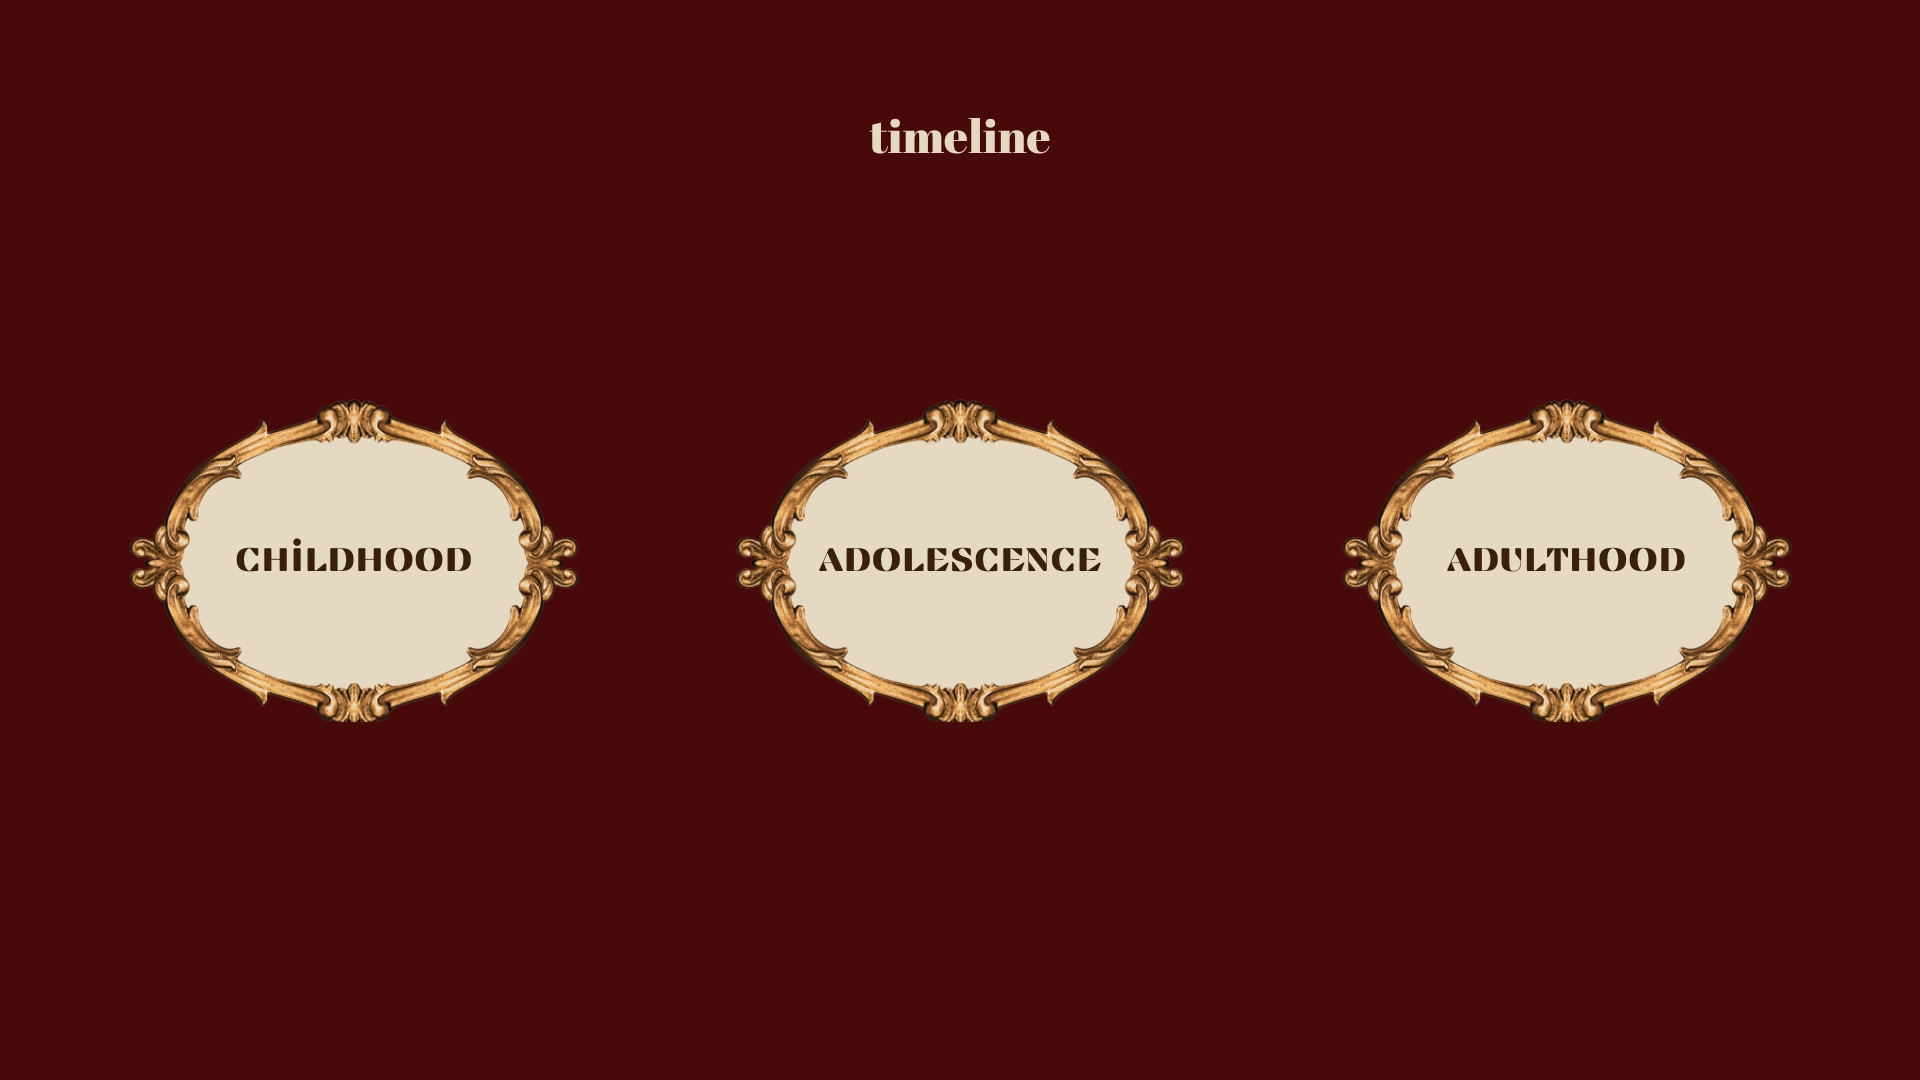
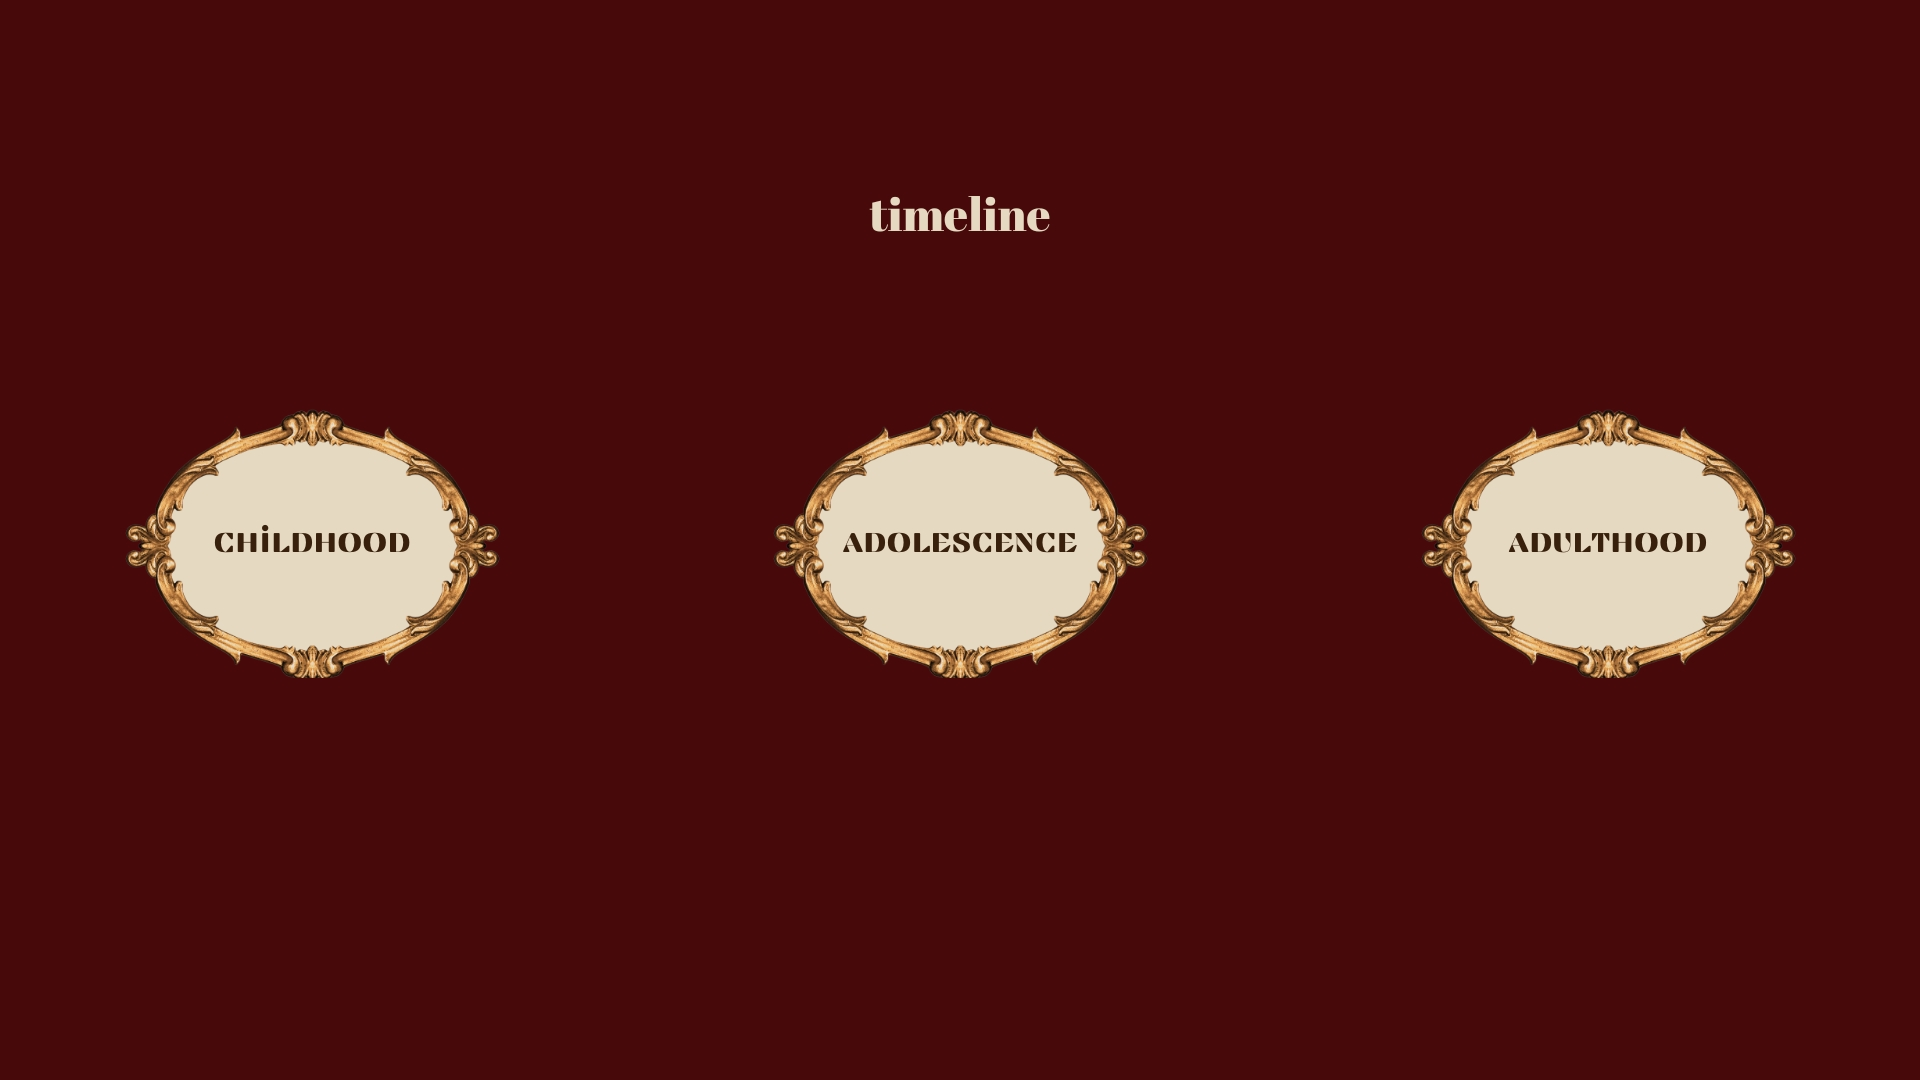
k

diff --git a/index.html b/index.html
@@ -53,13 +53,6 @@ img.top-banner [tags~="imagemap"] {
   padding: 0;
 }
 
-img.top-banner-lrg [tags~="imagemap] {
-  display: block;
-  width: 110%;
-  margin: 0;
-  padding: 0;
-}
-
 tw-story {
   font-family: 'Playfair Display', serif;
   color: #e6d9c1;
@@ -86,7 +79,7 @@ tw-sidebar
 // Harlowe Macro Framework, by Chapel; version 1.0.2
 ;!function(){"use strict";var r={major:1,minor:0,patch:2},e=[r.major,r.minor,r.patch].join(".");r.semantic=e,r=Object.freeze(r);var t=$("tw-storydata"),a=Object.freeze({name:t.attr("name"),ifid:t.attr("ifid")}),n=t.attr("format-version"),o=n.split("."),i=Object.freeze({major:o[0],minor:o[1],patch:o[2],semantic:n});window.Harlowe=window.Harlowe||{},window.Harlowe=Object.assign(window.Harlowe,{framework:r,API_ACCESS:Object.freeze({MACROS:require("macros"),STATE:require("state"),CHANGER:require("datatypes/changercommand"),ENGINE:require("engine")}),engine:i,story:a})}(),function(){"use strict";function e(r){return"number"==typeof r||"boolean"==typeof r||"string"==typeof r||null===r||Array.isArray(r)&&r.every(e)||r instanceof Set&&Array.from(r).every(e)||r instanceof Map&&Array.from(r.values()).every(e)||_changer.isPrototypeOf(r)}window.Harlowe=Object.assign(window.Harlowe,{helpers:{isSerialisable:e,isSerializable:e,arrayify:function(r,e){if(r){var t=[].slice.call(r);return void 0!==e&&(t=t.slice(e)),t}},getPassageData:function(r){var e=$('tw-passagedata[name="'+r+'"]');if(e[0])return e}}})}(),function(){"use strict";var n=window.localStorage||!1,o=Harlowe.story.ifid+"-tw-storage";function r(){try{if(!n)throw new Error("storage is inaccessible");n.setItem(o,JSON.stringify({ifid:Harlowe.story.ifid}))}catch(r){console.warn(r)}}function i(r){try{var e;if(n)return e=JSON.parse(n.getItem(o)),r&&r&&"string"==typeof r?e[r]:e;throw new Error("storage is inaccessible")}catch(r){console.warn(r)}}null==i()&&r(),Harlowe.storage={clear:r,save:function(r,e){try{if(!r||"string"!=typeof r)throw new TypeError("cannot store values without a valid storage key");if(void 0===e)throw new TypeError("cannot store undefined values");var t={};if(t[r]=e,!n)throw new Error("storage is inaccessible");var a=i();Object.assign(a,t),n.setItem(o,JSON.stringify(a))}catch(r){console.warn(r)}},load:i,remove:function(r){try{if(!r||"string"!=typeof r)throw new TypeError("cannot store values without a valid storage key");if(!n)throw new Error("storage is inaccessible");var e=i();e.hasOwnProperty(r)&&(delete e[r],n.setItem(o,JSON.stringify(e)))}catch(r){console.warn(r)}}}}(),function(){"use strict";function a(r,e,t){if(!(this instanceof a))return new a(r,e,t);this.name=r||"unknown",this.args=e||[],this.data=t||{},this.type=t&&t.type||"basic",this.fn=t&&t.fn||"handler","changer"===this.type&&("handler"===this.fn?this.instance=t&&t.instance||null:this.descriptor=t&&t.descriptor||null)}a.create=function(r,e,t){if(!r||"string"!=typeof r||!r.trim())throw new TypeError("Invalid macro name.");return e&&e instanceof Array||(e=[]),t&&"object"==typeof t||(t={type:"basic",fn:"handler"}),new a(r,e,t)},Object.assign(a.prototype,{clone:function(){return a.create(this.name,this.args,this.data)},syntax:function(){return"("+this.name+":)"},error:function(r,e){var t="Error in the "+this.syntax()+" macro: "+r;return e&&alert(t),console.warn("HARLOWE CUSTOM MACRO ERROR -> ",t),new Error(r)},typeCheck:function(r){r&&r instanceof Array||(r=Harlowe.helpers.arrayify(arguments));var n=this,o=[];if(r.forEach(function(r,e){var t=e+1,a=[];"string"==typeof r&&("any"===(a=r.includes("|")?r.split("|").map(function(r){return r.trim().toLowerCase()}):[r.trim().toLowerCase()])[0]||a.some(function(r){return typeof n.args[e]===r})||o.push("argument "+t+" should be a(n) "+a.join(" or ")))}),o.length)return n.error(o.join("; "))}}),window.Harlowe=Object.assign(window.Harlowe,{MacroContext:a})}(),function(){"use strict";var c=Harlowe.API_ACCESS.MACROS,l=Harlowe.API_ACCESS.CHANGER;window.Harlowe=Object.assign(window.Harlowe||{},{macro:function(r,e,t){if(!r||"string"!=typeof r||!r.trim())throw new TypeError("Invalid macro name.");if(!e||"function"!=typeof e)throw new TypeError("Invalid macro handler.");var a,n,o,i,s;t&&"function"==typeof t?(o=r,i=e,s=t,c.addChanger(o,function(){var r=Harlowe.helpers.arrayify(arguments,1),e=l.create(o,r),t=Harlowe.MacroContext.create(o,r,{type:"changer",fn:"handler",instance:e});return i.apply(t,r),e},function(){var r=Harlowe.helpers.arrayify(arguments),e=r.shift(),t=Harlowe.MacroContext.create(o,r,{type:"changer",fn:"changer",descriptor:e});s.apply(t,r)},c.TypeSignature.zeroOrMore(c.TypeSignature.Any))):(a=r,n=e,c.add(a,function(){var r=Harlowe.helpers.arrayify(arguments,1),e=Harlowe.MacroContext.create(a,r,{type:"basic",fn:"handler"}),t=n.apply(e,r);return null==t?"":t},c.TypeSignature.zeroOrMore(c.TypeSignature.Any)))}})}(),function(){"use strict";var t=Harlowe.API_ACCESS.STATE,e=Harlowe.API_ACCESS.ENGINE;function a(){return t.passage}window.Harlowe=Object.assign(window.Harlowe||{},{passage:a,tags:function(r){r=r||a();try{var e=Harlowe.helpers.getPassageData(r).attr("tags");return e?e.split(" "):[]}catch(r){return console.warn(r.message),[]}},goto:function(r){return e.goToPassage(r)},variable:function(r,e){if("$"!==r[0])throw new Error('cannot access variable "'+r+'"');if(r=r.substr(1),void 0!==e){if(!Harlowe.helpers.isSerialisable(e))throw new Error('The value passed to variable "'+r+'" cannot be serialized.');t.variables[r]=e}return t.variables[r]},visited:function(r){return t.passageNameVisited(r||a())},hasVisited:function(r){return 0<t.passageNameVisited(r||a())},turns:function(){return t.pastLength}})}();
 // end Harlowe Macro Framework</script><tw-tag name="imagemap" color="red"></tw-tag><tw-passagedata pid="1" name="Untitled Passage" tags="imagemap" position="600,250" size="100,100">&lt;!-- Image Map Generated by http://www.image-map.net/ --&gt;
-&lt;img src=&quot;./images/title.jpg&quot; class=&quot;top-banner-lrg&quot; usemap=&quot;#image-map&quot;&gt; 
+&lt;img src=&quot;./images/title.jpg&quot; class=&quot;top-banner&quot; usemap=&quot;#image-map&quot;&gt; 
 
 
 &lt;map name=&quot;image-map&quot;&gt;
@@ -107,12 +100,12 @@ tw-sidebar
 </tw-passagedata><tw-passagedata pid="2" name="introduction" tags="" position="600,375" size="100,100">(align:&quot;=&gt;&lt;=&quot;)+(box:&quot;===XXXXXXXXXXXXXX===&quot;)[//On Vanity and the Art of Comparison// is a personal essay exploring the concept of vanity and comparison in a world in which identity extends beyond that of the physical world and into the digital; a world in which your identity is often assumed upon by style or body type or facial features. It asks whether it is possible to reject the idea of vanity in such a society, and highlights the average young woman’s experience of vanity from childhood through to early adulthood. How does one’s perception of self-change throughout these integral life stages? You will be taken through three life stages, and how you choose to experience each of these is up to you. 
 
 [[Go to Timeline|timeline]]]</tw-passagedata><tw-passagedata pid="3" name="timeline" tags="imagemap" position="600,500" size="100,100">&lt;!-- Image Map Generated by http://www.image-map.net/ --&gt;
-&lt;img src=&quot;./images/timeline.jpg&quot; class=&quot;top-banner&quot; usemap=&quot;#image-map&quot;&gt;
+&lt;img src=&quot;./image/timeline.jpg&quot; class:&quot;top-banner&quot; usemap=&quot;#image-map&quot;&gt;
 
 &lt;map name=&quot;image-map&quot;&gt;
-    &lt;area target=&quot;&quot; alt=&quot;childhood&quot; title=&quot;childhood&quot; href=&quot;&quot; coords=&quot;180,566,185,531,210,485,253,458,295,437,356,434,404,441,456,453,507,492,527,534,529,565,521,614,499,641,456,670,426,680,393,690,354,695,317,688,282,682,243,666,210,644,193,621,181,598&quot; shape=&quot;poly&quot;&gt;
-    &lt;area target=&quot;&quot; alt=&quot;adolescence&quot; title=&quot;adolescence&quot; href=&quot;&quot; coords=&quot;787,570,792,524,819,482,862,456,902,441,960,436,1007,441,1050,451,1094,476,1121,504,1133,537,1136,565,1126,612,1102,641,1070,665,1035,682,1004,690,962,693,924,690,887,680,855,666,823,646,801,619,787,597&quot; shape=&quot;poly&quot;&gt;
-    &lt;area target=&quot;&quot; alt=&quot;adulthood&quot; title=&quot;adulthood&quot; href=&quot;&quot; coords=&quot;1391,570,1396,527,1420,490,1459,463,1499,446,1545,439,1584,437,1627,444,1657,453,1696,471,1720,498,1732,524,1740,553,1740,597,1723,624,1705,644,1676,663,1638,680,1598,688,1569,693,1533,690,1501,685,1469,675,1447,661,1420,643,1399,604&quot; shape=&quot;poly&quot;&gt;
+    &lt;area target=&quot;&quot; alt=&quot;childhood&quot; title=&quot;childhood&quot; href=&quot;&quot; coords=&quot;165,553,173,510,193,482,234,456,275,441,312,439,351,444,383,454,422,471,451,504,458,548,446,592,426,615,397,631,371,641,343,651,314,656,282,651,249,643,217,627,192,607,173,585&quot; shape=&quot;poly&quot;&gt;
+    &lt;area target=&quot;&quot; alt=&quot;adolescence&quot; title=&quot;adolescence&quot; href=&quot;&quot; coords=&quot;816,554,821,515,846,475,880,456,913,448,941,443,958,441,987,443,1014,448,1058,465,1082,487,1104,521,1106,546,1097,585,1079,610,1038,637,1004,646,960,653,931,651,901,646,870,632,838,610,823,588&quot; shape=&quot;poly&quot;&gt;
+    &lt;area target=&quot;&quot; alt=&quot;adulthood&quot; title=&quot;adulthood&quot; href=&quot;&quot; coords=&quot;1462,553,1471,512,1494,476,1528,458,1559,448,1591,441,1618,439,1644,444,1672,453,1713,468,1733,490,1752,521,1755,544,1750,575,1740,588,1733,604,1716,621,1684,639,1652,648,1632,654,1608,654,1581,653,1557,649,1537,643,1513,627,1493,615,1472,592,1464,576&quot; shape=&quot;poly&quot;&gt;
 &lt;/map&gt;
 
 &lt;script&gt;
